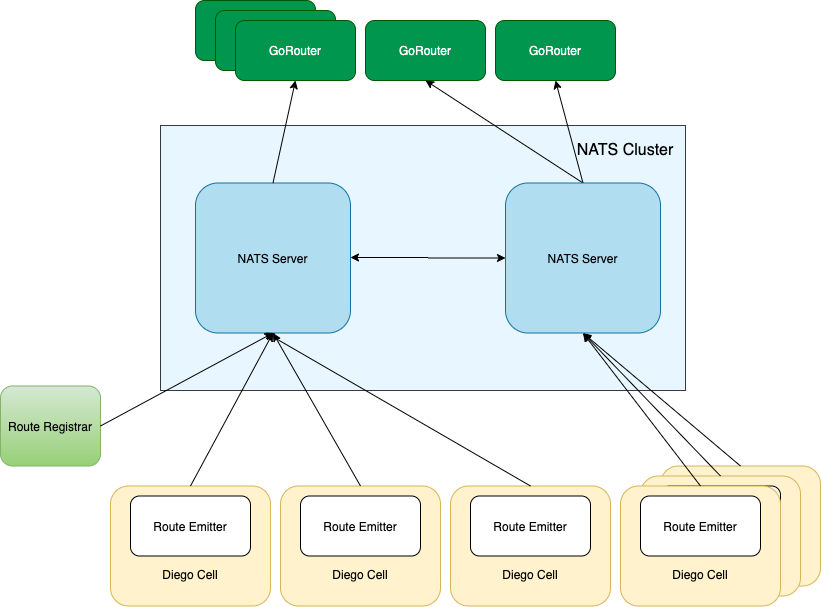
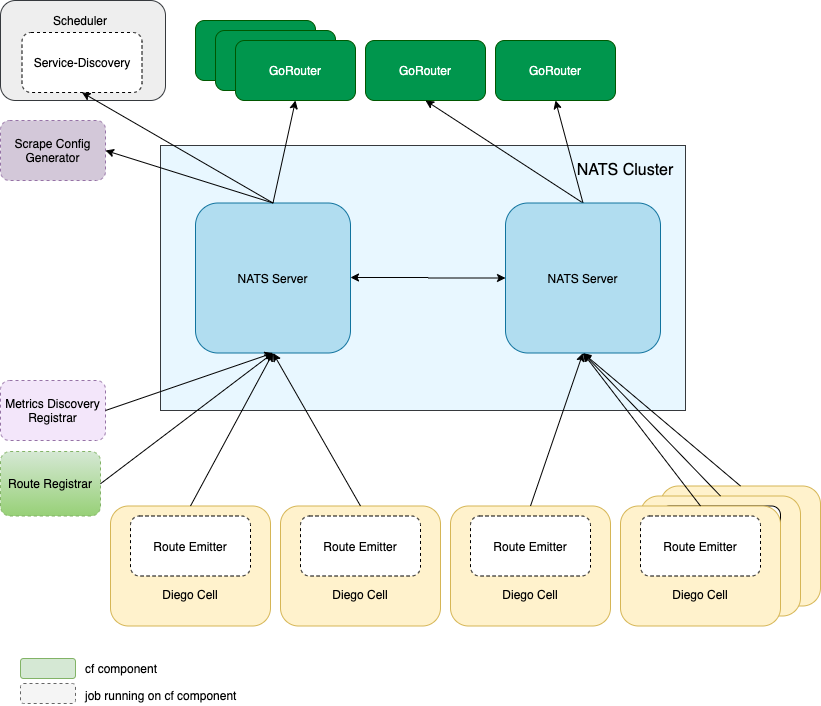
Add missing components in achitecture section

diff --git a/docs/cf_nats_overview.md b/docs/cf_nats_overview.md
@@ -20,18 +20,23 @@
 
 ## Overview
 
-Cloud Foundry uses NATS as a publish-suscribe messaging system for route configuration. The nats-release deploys NATS as a bosh release to be used to exchange route registration/unregistration between route publishers (Route Emitters, Route Registrars) and route subscribers (Gorouters).
+Cloud Foundry uses NATS as a publish-subscribe messaging system for exchanging routes and metrics configurations between components. The nats-release deploys NATS server as a bosh release to/from which the messages are consumed.
+
 ## Architecture
 ![](images/cf-routing.png)
 
 | Component | Description   |
 |---|---|
-| Route Emitter | A job that runs on the Diego Cell. It publishes the route information of an app to NATS. It sends a message with subject "router.register" or "router.unregister" and information about the app. The format of the "router.register" message can be found [here](https://github.com/cloudfoundry/gorouter#registering-routes-via-nats).|
-| Route Registrar | Publishes route information for the system components.  |
-| NATS Server | Receives the published routes from publishers and conveys then to subscribers.|
-| NATS Cluster  | See more [here](https://docs.nats.io/nats-server/configuration/clustering). The participating NATS Server listens on a cluster port and knows the other NATS Servers which join the cluster.|
-| Gorouter | Subscribes for the messages with subject "router.*". |
+| [Route Emitter](https://github.com/cloudfoundry/route-emitter) | A job that runs on the Diego Cell. It publishes(internal and external) app routes.|
+| [Route Registrar](https://github.com/cloudfoundry/route-registrar) | Publishes route information for the system components.  |
+| [NATS Server](https://github.com/nats-io/nats-server) | Receives the published routes from publishers and conveys then to subscribers.|
+| [NATS Cluster](https://docs.nats.io/nats-server/configuration/clustering)  | The participating NATS Server listens on a cluster port and knows the other NATS Servers which join the cluster.|
+| [Gorouter](https://github.com/cloudfoundry/gorouter) | Subscribes for the messages with subject "router.*". |
+| [Service Discovery Controller](https://github.com/cloudfoundry/cf-networking-release/blob/develop/docs/service-discovery-architecture.md) | Subscribes to route updates from NATS on the internal routes subjects, "service-discovery.register", "service-discovery.unregister" and "service-discovery.greet" |
+| [Metrics Discovery Registrar](https://github.com/cloudfoundry/metrics-discovery-release#metrics-discovery-registrar)  | Publishes scrape configs to CF NATS to be consumed by a Scrape Config Generator.|
+| [Scrape Config Generator](https://github.com/cloudfoundry/metrics-discovery-release#scrape-config-generator)| Subscribes to CF NATS and consumes published metric targets.|
 
+Note: The document will further focus on the external routing in Cloud Foundry.
 
 ## Communication Flow
 
@@ -53,7 +58,7 @@ If a Route Emitter comes online after the Gorouter, it must make a NATS request 
 
 Each NATS Server instance forwards messages that it has received from Route Emitters to the other NATS Server instances in the cluster. Messages received from a Route connection will only be distributed to local clients, e.g. Gorouter.
 
-Upon receival of the registration/deregistration of app routes, Gorouter updates its routing table. If Gorouter doesn't receive a "router.register" message for an app within [`droplet_stale_threshold`](#gorouter-time-intervals), it prunes the route within the next pruning cycle (Note: pruning is performed to prevent misrouting, thus it is disabled when TLS/mTLS to Apps is enabled, as described [here](https://docs.cloudfoundry.org/concepts/http-routing.html#consistency)) 
+Upon receival of the registration/deregistration of app routes, Gorouter updates its routing table. If Gorouter doesn't receive a "router.register" message for an app within [`droplet_stale_threshold`](#gorouter-time-intervals), it prunes the route within the next pruning cycle (Note: pruning is performed to prevent misrouting, thus it is disabled when TLS/mTLS to Apps is enabled, as described [here](https://docs.cloudfoundry.org/concepts/http-routing.html#consistency))
 
 The picture illustrates the communication flow described above.
 
@@ -61,7 +66,7 @@ The picture illustrates the communication flow described above.
 
 ## NATS Server Configurations
 
-The nats-release currently offers two NATS jobs that can be colocated: a plain-text one (nats), which will be removed when all Cloud Foundry NATS clients are upgraded to use TLS, and a TLS one (nats-tls). The release garantees that the non-tls clients (e.g. Gorouter) don't attempt to connect to the tls servers by setting the default value for `no_advertise` flag in nats-tls job to [`true`](https://github.com/cloudfoundry/nats-release/blob/a626be571d06b81004b247d58f5abf74a143346e/jobs/nats-tls/spec#L74). In this case the NATS Server configured by nats-tls job will not advertise its client IP to the other cluster participants. Only clients (e.g. Route Emitter) which know the tls server from their configuration will attempt to connect to it.
+The nats-release currently offers two NATS jobs that can be colocated: a plain-text one (nats), which will be removed when all Cloud Foundry NATS clients are upgraded to use TLS, and a TLS one (nats-tls). The release guarantees that the non-tls clients (e.g. Gorouter) don't attempt to connect to the tls servers by setting the default value for `no_advertise` flag in nats-tls job to [`true`](https://github.com/cloudfoundry/nats-release/blob/a626be571d06b81004b247d58f5abf74a143346e/jobs/nats-tls/spec#L74). In this case the NATS Server configured by nats-tls job will not advertise its client IP to the other cluster participants. Only clients (e.g. Route Emitter) which know the tls server from their configuration will attempt to connect to it.
 
 Aside from choosing to run nats or nats-tls jobs which will accordingly enable or disable TLS for the server external traffic (communication with clients), the release also allows you to enable authenticated TLS for NATS cluster-internal traffic by setting the property [`nats.internal.tls.enabled`](https://github.com/cloudfoundry/nats-release/blob/a626be571d06b81004b247d58f5abf74a143346e/jobs/nats-tls/spec#L83) to `true`.
 
